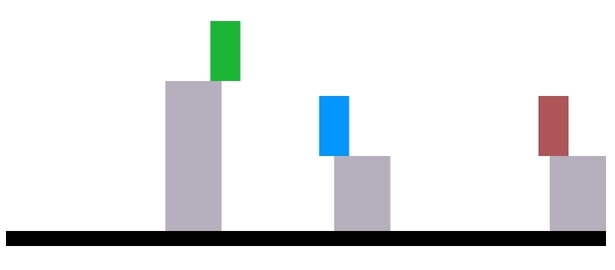
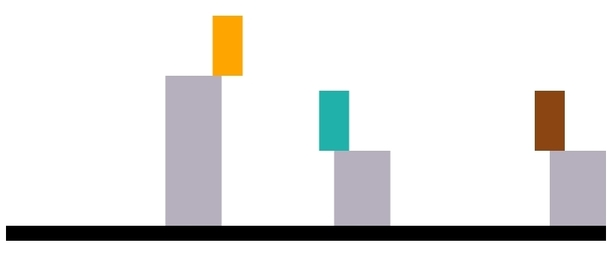
added updated pictures group2, use different group per trialnot per person, remove train trials

diff --git a/experiments/blocksworld-prior/02_custom_functions.js b/experiments/blocksworld-prior/02_custom_functions.js
@@ -1,6 +1,6 @@
 // Here, you can define all custom functions, you want to use and initialize some variables
 
-const group = _.sample(["group1", "group2"]); // You can determine global (random) parameters here
+// You can determine global (random) parameters here
 
 // Declare your variables here
 
@@ -52,10 +52,10 @@ check_response = function (data, next) {
 };
 
 // custom functions:
-let id2Question = {"bg": "<b>Blue will</b> and <b>green will</b> touch the ground.",
-                   "g": "<b>Blue will not</b> and <b>green will</b> touch the ground.",
-                   "b": "<b>Blue will</b> and <b>green will not</b> touch the ground.",
-                   "none": "<b>Blue will not</b> and <b>green will not</b> touch the ground."
+let id2Question = {"bg": "<b>Blue will</b> and <b>orange will</b> touch the ground.",
+                   "g": "<b>Blue will not</b> and <b>orange will</b> touch the ground.",
+                   "b": "<b>Blue will</b> and <b>orange will not</b> touch the ground.",
+                   "none": "<b>Blue will not</b> and <b>orange will not</b> touch the ground."
                  };
 let _idQuestions = Object.entries(id2Question);
 let question2ID = {};

diff --git a/experiments/blocksworld-prior/04_trials.js b/experiments/blocksworld-prior/04_trials.js
@@ -1,7 +1,10 @@
 // In this file you can specify the trial data for your experiment
 
+let group = "group";
+
 var slider_rating_trials = [
   {
+
     picture: "../stimuli/images/" + group + "/" +"S1-121.jpg",
     QUD: "Rate how likely each of the following statements is!",
     question1: "utterance1",
@@ -255,5 +258,11 @@ var slider_rating_trials = [
 
 ];
 
+let n = slider_rating_trials.length;
+_.map(slider_rating_trials, function(trial){
+  let group = _.sample(["group1", "group2"]);
+  trial.picture = trial.picture.replace("group", group);
+});
+console.log(slider_rating_trials[0]);
 // call random_utterance to later be able to randomly show the utterances
 slider_rating_trials = random_utterance(slider_rating_trials);

diff --git a/experiments/blocksworld-prior/animation-physical-engine/04_worlds.js b/experiments/blocksworld-prior/animation-physical-engine/04_worlds.js
@@ -163,12 +163,12 @@ let ids = ["S1-121", "S10-203", "S12-203", "S15-443", "S20-468","S22-468",
            "S30-805", "S32-806", "S34-806", "S42-806", "S44-806", "S54-806",
            "S55-1006", "S57-1007", "S59-1007", "S63-1039", "S7-130", "S8-202", "S83-1609", "S89-1642", "S93-1674", "S97-1674", "S7-130-dep",
            "S30-805-dep", "S89-1642-dep"];
-console.log(ids.length)
 
 // let idxScene = Math.floor(Math.random()*10)
-let idxScene = 15;
-// let sceneID = ids[idxScene];
-let sceneID = "S97-1674";
+let idxScene =24;
+let sceneID = ids[idxScene];
+// let sceneID = "S97-1674";
+console.log(sceneID);
 
 let allScenes;
 let sceneProps;

diff --git a/experiments/blocksworld-prior/06_main.js b/experiments/blocksworld-prior/06_main.js
@@ -18,7 +18,7 @@ $("document")
       views_seq: [
       intro,
       instructions,
-      animation_view,
+      // animation_view,
       instructions2,
       multiple_slider,
       post_test,
@@ -39,7 +39,7 @@ $("document")
       progress_bar: {
         in: [
         // list the view-names of the views for which you want a progress bar
-        animation_view.name,
+        // animation_view.name,
         multiple_slider.name
       ],
         // Possible styles are "default", "separate" and "chunks"
